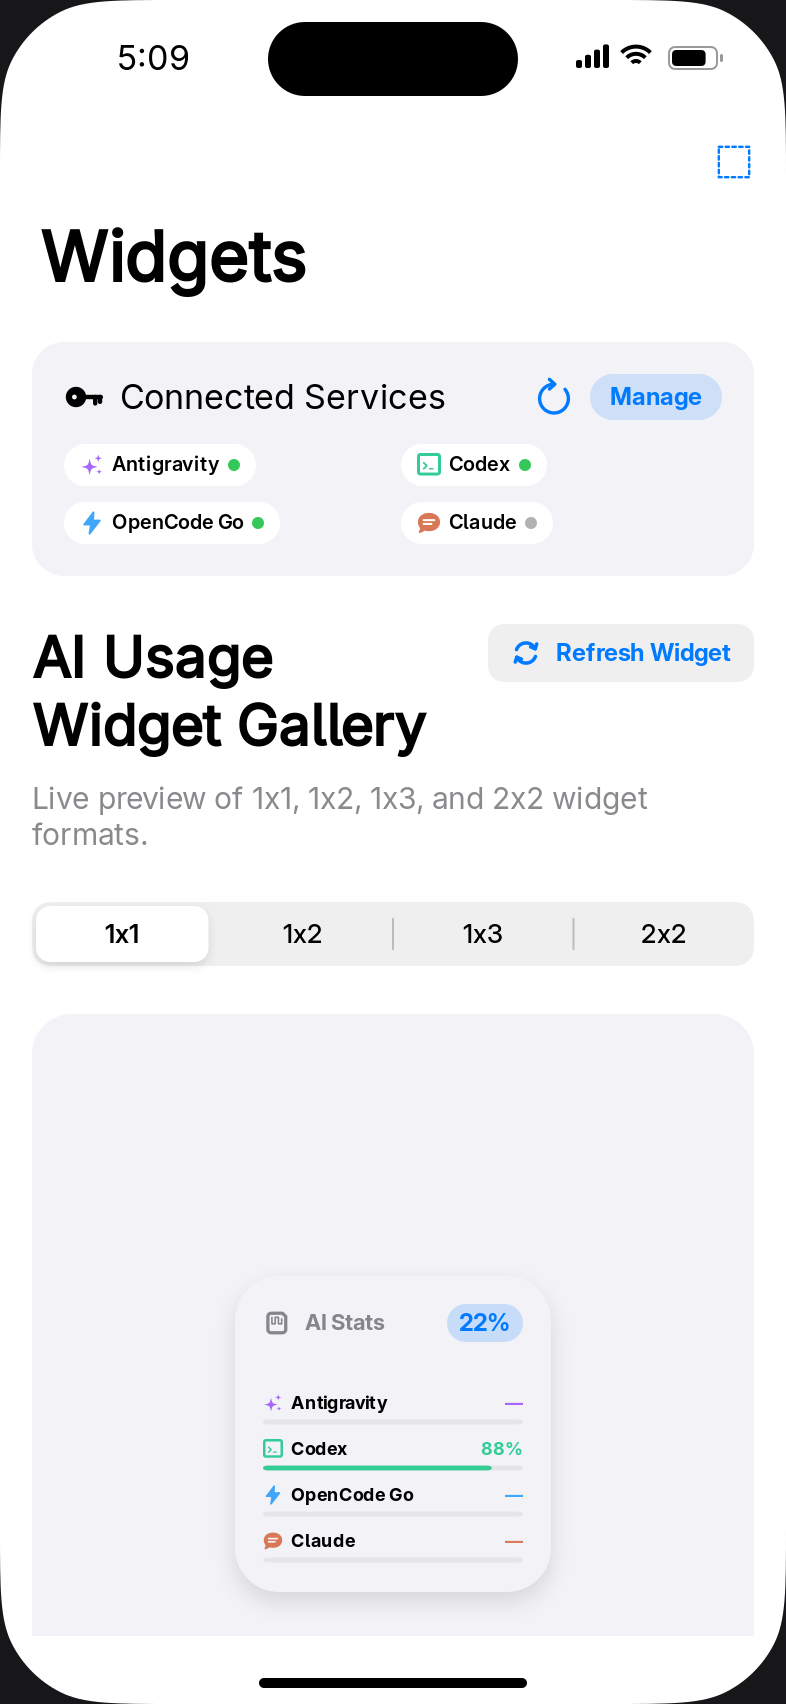
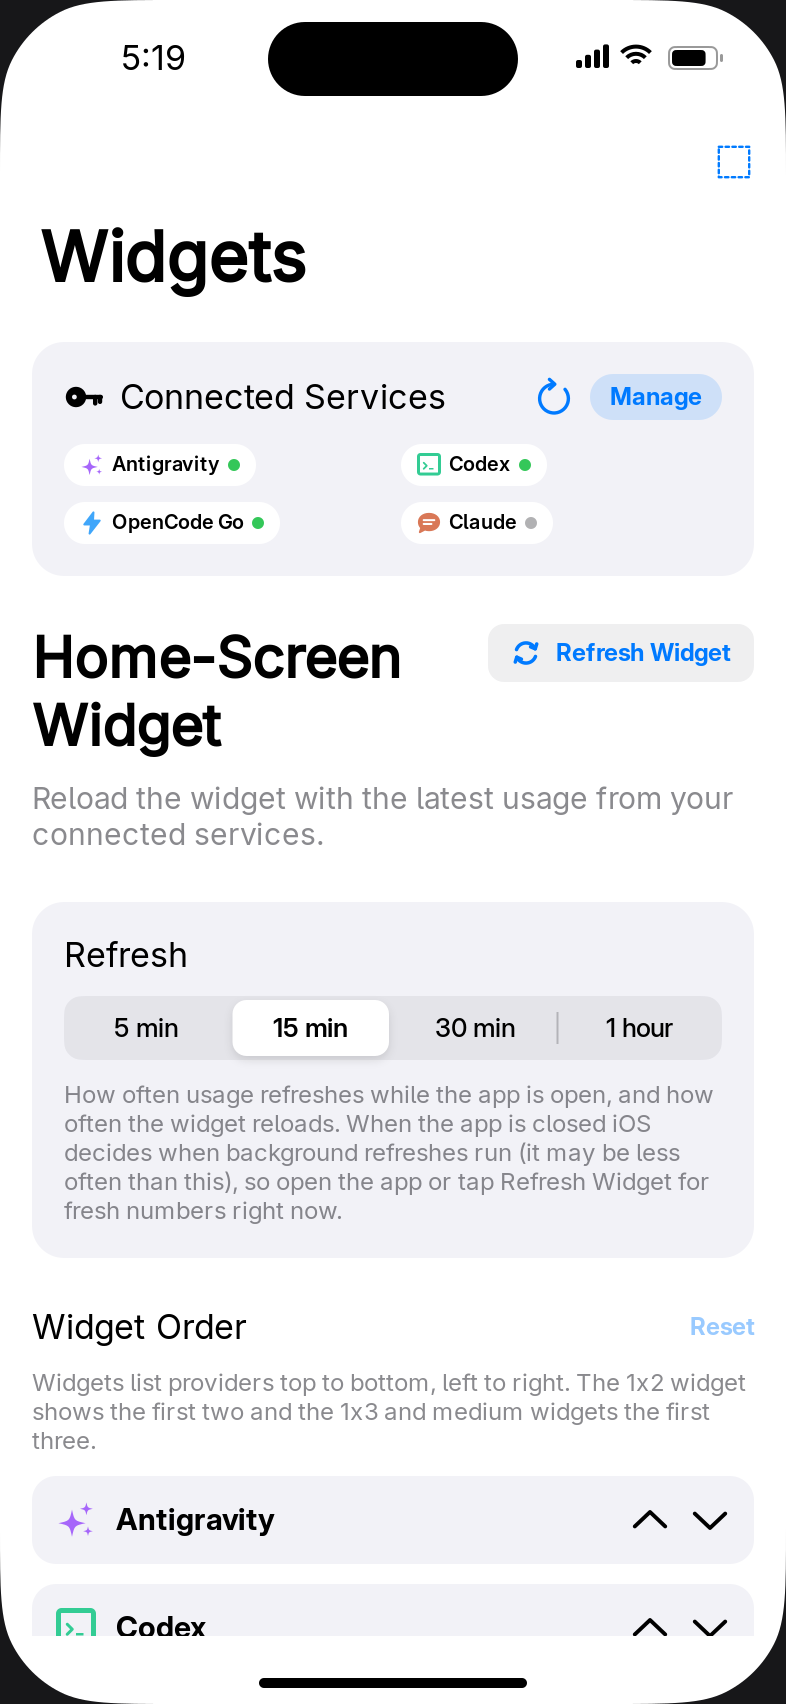
feat: remove widget preview gallery and placeholder tweaker from the app (#10)
The dashboard no longer embeds the live widget size picker/preview or the
sliders that edited placeholder metrics. Refresh Widget, refresh interval,
and widget order stay. The Widget*View structs and #Previews remain for
screenshot generation.

diff --git a/slopWidget/ContentView.swift b/slopWidget/ContentView.swift
@@ -443,7 +443,6 @@ public struct Widget2x2View: View {
 public struct ContentView: View {
     @ObservedObject private var authManager = AuthManager.shared
     @State private var providers: [ProviderUsageItem] = []
-    @State private var selectedTab: Int = 0
     @State private var showingLoginSheet: Bool = false
     @State private var isRefreshingUsage: Bool = false
     @State private var isRefreshingWidget: Bool = false
@@ -504,7 +503,7 @@ public struct ContentView: View {
                     // Header
                     VStack(alignment: .leading, spacing: 10) {
                         HStack(alignment: .firstTextBaseline) {
-                            Text("AI Usage Widget Gallery")
+                            Text("Home-Screen Widget")
                                 .font(.title.bold())
                             Spacer()
                             Button {
@@ -520,7 +519,7 @@ public struct ContentView: View {
                             .buttonStyle(.bordered)
                             .disabled(isRefreshingWidget)
                         }
-                        Text("Live preview of 1x1, 1x2, 1x3, and 2x2 widget formats.")
+                        Text("Reload the widget with the latest usage from your connected services.")
                             .font(.subheadline)
                             .foregroundStyle(.secondary)
                         if let widgetRefreshStatus {
@@ -530,76 +529,9 @@ public struct ContentView: View {
                         }
                     }
 
-                    // Widget Selector Tabs
-                    Picker("Widget Size", selection: $selectedTab) {
-                        Text("1x1").tag(0)
-                        Text("1x2").tag(1)
-                        Text("1x3").tag(2)
-                        Text("2x2").tag(3)
-                    }
-                    .pickerStyle(.segmented)
-
-                    // Widget Display Canvas
-                    VStack {
-                        Spacer()
-                        switch selectedTab {
-                        case 0:
-                            Widget1x1View(providers: orderedProviders)
-                        case 1:
-                            Widget1x2View(providers: orderedProviders)
-                        case 2:
-                            Widget1x3View(providers: orderedProviders)
-                        case 3:
-                            Widget2x2View(providers: orderedProviders)
-                        default:
-                            Widget1x1View(providers: orderedProviders)
-                        }
-                        Spacer()
-                    }
-                    .frame(maxWidth: .infinity, minHeight: 380)
-                    .padding(.vertical, 20)
-                    .background(Color(.systemGroupedBackground), in: RoundedRectangle(cornerRadius: 20))
-
                     refreshSection
 
                     providerOrderSection
-
-                    // Adjust Values
-                    VStack(alignment: .leading, spacing: 14) {
-                        Text("Tweak Placeholder Metrics")
-                            .font(.headline)
-
-                        ForEach(providers.indices, id: \.self) { idx in
-                            VStack(alignment: .leading, spacing: 6) {
-                                HStack {
-                                    Image(systemName: providers[idx].icon)
-                                        .foregroundColor(providers[idx].color)
-                                    Text(providers[idx].name)
-                                        .font(.subheadline.bold())
-                                    Spacer()
-                                    Text(providers[idx].hasUsageData
-                                         ? (providers[idx].hasRequestCount
-                                            ? "\(providers[idx].requestsUsed) / \(providers[idx].requestLimit) reqs (\(providers[idx].percentageInt)%)"
-                                            : "\(providers[idx].percentageInt)% used")
-                                         : "Usage not available")
-                                        .font(.caption.bold())
-                                        .foregroundColor(providers[idx].color)
-                                }
-
-                                Slider(
-                                    value: Binding(
-                                        get: { Double(providers[idx].requestsUsed) },
-                                        set: { providers[idx].requestsUsed = Int($0) }
-                                    ),
-                                    in: 0...Double(providers[idx].requestLimit),
-                                    step: 1
-                                    )
-                                .tint(providers[idx].color)
-                            }
-                            .padding(12)
-                            .background(Color(.secondarySystemBackground), in: RoundedRectangle(cornerRadius: 12))
-                        }
-                    }
                 }
                 .padding()
             }

diff --git a/README.md b/README.md
@@ -93,7 +93,7 @@ usage window in place (see "Tap-to-cycle for every provider" above).
   URL scheme (deep-link fallback).
 - **[slopWidget/](slopWidget/)**: Application source code.
   - `slopWidgetApp.swift`: App scene lifecycle.
-  - `ContentView.swift`: Dashboard and live widget previews.
+  - `ContentView.swift`: Dashboard (connections, refresh, widget order) and the widget views used for previews/screenshots.
   - `AuthManager.swift`: Centralized `@MainActor` credential storage and state
     for all three providers.
   - `LoginSheetView.swift`: Account management sheet.
